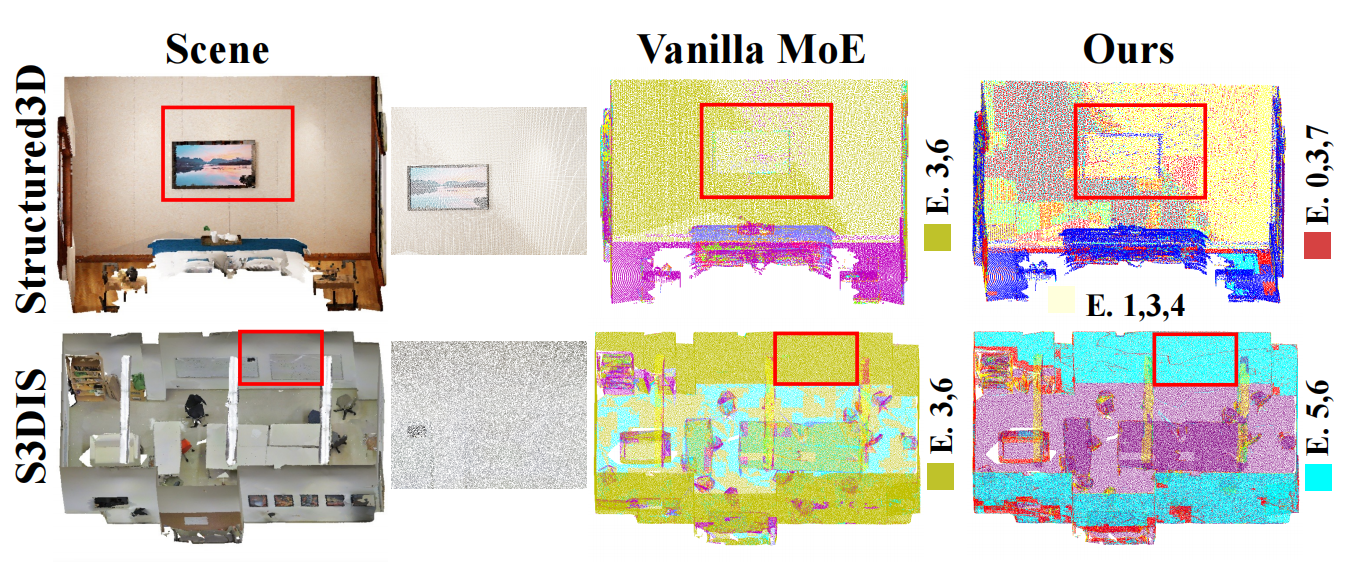
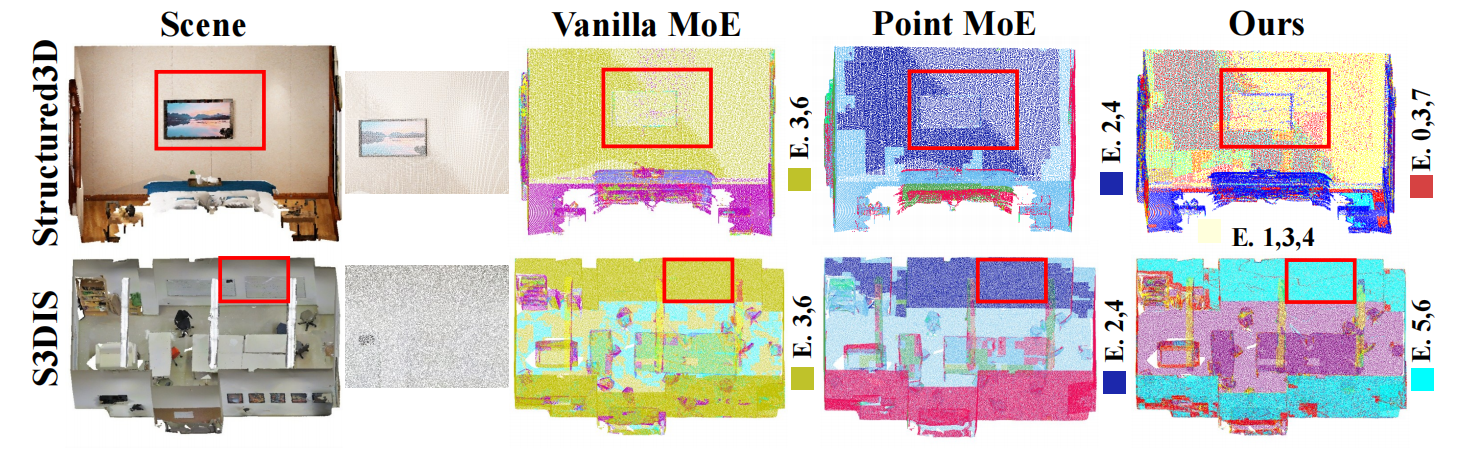
Add project page

diff --git a/index.html b/index.html
@@ -6,9 +6,9 @@
   
   <!-- Primary Meta Tags -->
   <!-- TODO: Replace with your paper title and author names -->
-  <meta name="title" content="DoReMi: Bridging 3D Domains via Topology-Aware Domain-Representation Mixture of Experts - Mingwei Xing, Xinliang Wang, Yifeng Shi">
+  <meta name="title" content="STAR: A Spatial-Topology Aware Routing Framework for Generalizable 3D Scene Understanding - Mingwei Xing, Xinliang Wang, Yifeng Shi">
   <!-- TODO: Write a compelling 150-160 character description of your research -->
-  <meta name="description" content="DoReMi introduces a topology-aware domain-representation mixture of experts for generalizable 3D scene understanding across heterogeneous sensors.">
+  <meta name="description" content="STAR introduces a spatial-topology aware routing framework for generalizable 3D scene understanding across heterogeneous sensors.">
   <!-- TODO: Add 5-10 relevant keywords for your research area -->
   <meta name="keywords" content="3D Understanding, Multi-domain Learning, Mixture-of-Experts, Topology-aware Routing, Domain Adaptation">
   <!-- TODO: List all authors -->
@@ -21,16 +21,16 @@
   <!-- TODO: Replace with your institution or lab name -->
   <meta property="og:site_name" content="Ke Holdings Inc.">
   <!-- TODO: Same as paper title above -->
-  <meta property="og:title" content="DoReMi: Bridging 3D Domains via Topology-Aware Domain-Representation Mixture of Experts">
+  <meta property="og:title" content="STAR: A Spatial-Topology Aware Routing Framework for Generalizable 3D Scene Understanding">
   <!-- TODO: Same as description above -->
-  <meta property="og:description" content="DoReMi introduces a topology-aware domain-representation mixture of experts for generalizable 3D scene understanding across heterogeneous sensors.">
+  <meta property="og:description" content="STAR introduces a spatial-topology aware routing framework for generalizable 3D scene understanding across heterogeneous sensors.">
   <!-- TODO: Replace with your actual website URL -->
   <meta property="og:url" content="https://YOUR_DOMAIN.com/YOUR_PROJECT_PAGE">
   <!-- TODO: Create a 1200x630px preview image and update path -->
   <meta property="og:image" content="https://YOUR_DOMAIN.com/static/images/social_preview.png">
   <meta property="og:image:width" content="1200">
   <meta property="og:image:height" content="630">
-  <meta property="og:image:alt" content="DoReMi - Research Preview">
+  <meta property="og:image:alt" content="STAR - Research Preview">
   <meta property="article:published_time" content="2024-01-01T00:00:00.000Z">
   <meta property="article:author" content="Mingwei Xing">
   <meta property="article:section" content="Research">
@@ -44,15 +44,15 @@
   <!-- TODO: Replace with first author's Twitter handle -->
   <meta name="twitter:creator" content="@AUTHOR_TWITTER_HANDLE">
   <!-- TODO: Same as paper title above -->
-  <meta name="twitter:title" content="DoReMi: Bridging 3D Domains via Topology-Aware Domain-Representation Mixture of Experts">
+  <meta name="twitter:title" content="STAR: A Spatial-Topology Aware Routing Framework for Generalizable 3D Scene Understanding">
   <!-- TODO: Same as description above -->
-  <meta name="twitter:description" content="DoReMi introduces a topology-aware domain-representation mixture of experts for generalizable 3D scene understanding across heterogeneous sensors.">
+  <meta name="twitter:description" content="STAR introduces a spatial-topology aware routing framework for generalizable 3D scene understanding across heterogeneous sensors.">
   <!-- TODO: Same as social preview image above -->
   <meta name="twitter:image" content="https://YOUR_DOMAIN.com/static/images/social_preview.png">
-  <meta name="twitter:image:alt" content="DoReMi - Research Preview">
+  <meta name="twitter:image:alt" content="STAR - Research Preview">
 
   <!-- Academic/Research Specific -->
-  <meta name="citation_title" content="DoReMi: Bridging 3D Domains via Topology-Aware Domain-Representation Mixture of Experts">
+  <meta name="citation_title" content="STAR: A Spatial-Topology Aware Routing Framework for Generalizable 3D Scene Understanding">
   <meta name="citation_author" content="Xing, Mingwei">
   <meta name="citation_author" content="Wang, Xinliang">
   <meta name="citation_author" content="Shi, Yifeng">
@@ -75,7 +75,7 @@
 
 
   <!-- TODO: Replace with your paper title and authors -->
-  <title>DoReMi | Academic Research</title>
+  <title>STAR | Academic Research</title>
   
   <!-- Favicon and App Icons -->
   <link rel="icon" type="image/x-icon" href="static/images/favicon.ico">
@@ -115,8 +115,8 @@
   {
     "@context": "https://schema.org",
     "@type": "ScholarlyArticle",
-    "headline": "DoReMi: Bridging 3D Domains via Topology-Aware Domain-Representation Mixture of Experts",
-    "description": "DoReMi introduces a topology-aware domain-representation mixture of experts for generalizable 3D scene understanding across heterogeneous sensors.",
+    "headline": "STAR: A Spatial-Topology Aware Routing Framework for Generalizable 3D Scene Understanding",
+    "description": "STAR introduces a spatial-topology aware routing framework for generalizable 3D scene understanding across heterogeneous sensors.",
     "author": [
       {
         "@type": "Person",
@@ -143,7 +143,7 @@
     "url": "https://YOUR_DOMAIN.com/YOUR_PROJECT_PAGE",
     "image": "https://YOUR_DOMAIN.com/static/images/social_preview.png",
     "keywords": ["3D Understanding", "Multi-domain Learning", "Mixture-of-Experts", "Topology-aware Routing"],
-    "abstract": "Constructing a unified 3D scene understanding model has long been hindered by the significant topological discrepancies across different sensor modalities. While applying the Mixture-of-Experts (MoE) architecture is an effective approach to achieving universal understanding, we observe that existing 3D MoE networks often suffer from semantics-driven routing bias. This makes it challenging to address cross-domain data characterized by semantic consistency yet topological heterogeneity. To overcome this challenge, we propose DoReMi (Topology-Aware Domain-Representation Mixture of Experts). Specifically, we introduce a self-supervised pre-training branch based on multi attributes, such as topological and texture variations, to anchor cross-domain structural priors. Building upon this, we design a domain-aware expert branch comprising two core mechanisms: Domain Spatial-Guided Routing (DSR), which achieves an acute perception of local topological variations by extracting spatial contexts, and Entropy-controlled Dynamic Allocation (EDA), which dynamically adjusts the number of activated experts by quantifying routing uncertainty to ensure training stability. Through the synergy of these dual branches, DoReMi achieves a deep integration of universal feature extraction and highly adaptive expert allocation. Extensive experiments across various tasks, encompassing both indoor and outdoor scenes, validate the superiority of DoReMi. It achieves 80.1% mIoU on the ScanNet validation set and 77.2% mIoU on S3DIS, comprehensively outperforming existing state-of-the-art methods. The code will be released soon.",
+    "abstract": "Constructing a unified 3D scene understanding model has long been hindered by the significant topological discrepancies across different sensor modalities. While applying the Mixture-of-Experts (MoE) architecture is a flexible approach for multi-domain 3D understanding, we observe that conventional feature-only MoE routers may underrepresent local sampling topology under semantic supervision, making expert allocation difficult when semantic consistency coexists with geometric heterogeneity. To overcome this challenge, we propose STAR (Spatial-Topology Aware Routing Framework). Specifically, we introduce a multi-attribute self-supervised pre-training branch, covering topological and textural variations, to anchor cross-domain structural priors. Building upon this, we design a domain-aware expert branch with two mechanisms: Domain-Spatial-Guided Routing (DSR), which captures local topological variations from spatial context, and Entropy-controlled Dynamic Allocation (EDA), which adjusts the number of activated experts according to routing uncertainty. Together, these branches combine stable cross-domain representation learning with adaptive expert allocation. Extensive experiments across various tasks, encompassing both indoor and outdoor scenes, demonstrate the effectiveness of STAR. It achieves 80.1% mIoU on the ScanNet validation set and 77.2% mIoU on S3DIS, consistently improving over strong baselines.",
     "citation": "BIBTEX_CITATION_HERE",
     "isAccessibleForFree": true,
     "license": "https://creativecommons.org/licenses/by/4.0/",
@@ -193,7 +193,7 @@
         <div class="columns is-centered">
           <div class="column has-text-centered">
             <!-- TODO: Replace with your paper title -->
-            <h1 class="title is-1 publication-title"><span style="color:#D64045">Do</span><span style="color:#2CA58D">Re</span><span style="color:#4E8BD6">Mi</span>: Bridging 3D Domains via Topology-Aware <span style="color:#D64045">Do</span>main-<span style="color:#2CA58D">Re</span>presentation <span style="color:#4E8BD6">Mi</span>xture of Experts</h1>
+            <h1 class="title is-1 publication-title"><span style="color:#D64045">S</span>TAR: A <span style="color:#D64045">S</span>patial-<span style="color:#2CA58D">T</span>opology <span style="color:#4E8BD6">A</span>ware <span style="color:#E8A838">R</span>outing Framework for Generalizable 3D Scene Understanding</h1>
             <div class="is-size-5 publication-authors">
               <!-- TODO: Replace with your paper authors and their personal links -->
               <span class="author-block">Mingwei Xing<sup>*</sup>,</span>
@@ -228,7 +228,7 @@
                     </span>
 
                   <span class="link-block">
-                    <a href="https://github.com/xmw666/DoReMi" target="_blank"
+                    <a href="https://github.com/xmw666/STAR" target="_blank"
                     class="external-link button is-normal is-rounded is-dark">
                     <span class="icon">
                       <i class="fab fa-github"></i>
@@ -238,7 +238,7 @@
                 </span>
 
                 <span class="link-block">
-                  <a href="https://huggingface.co/koun123/DoReMi/tree/main" target="_blank"
+                  <a href="https://huggingface.co/koun123/STAR/tree/main" target="_blank"
                   class="external-link button is-normal is-rounded is-dark">
                   <span class="icon">
                     <span aria-hidden="true">🤗</span>
@@ -258,9 +258,9 @@
 <section class="hero teaser">
   <div class="container is-max-desktop">
     <div class="hero-body">
-      <img src="static/images/framework.png" alt="DoReMi framework overview" loading="eager"/>
+      <img src="static/images/framework.png" alt="STAR framework overview" loading="eager"/>
       <h2 class="subtitle has-text-centered">
-        Overview of DoReMi with the dual-branch design: unified representation branch and topology-aware domain-aware branch.
+        Overview of STAR with the dual-branch design: unified representation branch and topology-aware domain-aware branch.
       </h2>
     </div>
   </div>
@@ -275,7 +275,7 @@
         <div class="content has-text-justified">
           <!-- TODO: Replace with your paper abstract -->
           <p>
-            Constructing a unified 3D scene understanding model has long been hindered by the significant topological discrepancies across different sensor modalities. While applying the Mixture-of-Experts (MoE) architecture is an effective approach to achieving universal understanding, we observe that existing 3D MoE networks often suffer from semantics-driven routing bias. This makes it challenging to address cross-domain data characterized by "semantic consistency yet topological heterogeneity." To overcome this challenge, we propose DoReMi (Topology-Aware Domain-Representation Mixture of Experts). Specifically, we introduce a self-supervised pre-training branch based on multi attributes, such as topological and texture variations, to anchor cross-domain structural priors. Building upon this, we design a domain-aware expert branch comprising two core mechanisms: Domain Spatial-Guided Routing (DSR), which achieves an acute perception of local topological variations by extracting spatial contexts, and Entropy-controlled Dynamic Allocation (EDA), which dynamically adjusts the number of activated experts by quantifying routing uncertainty to ensure training stability. Through the synergy of these dual branches, DoReMi achieves a deep integration of universal feature extraction and highly adaptive expert allocation. Extensive experiments across various tasks, encompassing both indoor and outdoor scenes, validate the superiority of DoReMi. It achieves 80.1% mIoU on the ScanNet validation set and 77.2% mIoU on S3DIS, comprehensively outperforming existing state-of-the-art methods. The code will be released soon.
+            Constructing a unified 3D scene understanding model has long been hindered by the significant topological discrepancies across different sensor modalities. While applying the Mixture-of-Experts (MoE) architecture is a flexible approach for multi-domain 3D understanding, we observe that conventional feature-only MoE routers may underrepresent local sampling topology under semantic supervision, making expert allocation difficult when semantic consistency coexists with geometric heterogeneity. To overcome this challenge, we propose <b>STAR</b> (Spatial-Topology Aware Routing Framework). Specifically, we introduce a multi-attribute self-supervised pre-training branch, covering topological and textural variations, to anchor cross-domain structural priors. Building upon this, we design a domain-aware expert branch with two mechanisms: Domain-Spatial-Guided Routing (DSR), which captures local topological variations from spatial context, and Entropy-controlled Dynamic Allocation (EDA), which adjusts the number of activated experts according to routing uncertainty. Together, these branches combine stable cross-domain representation learning with adaptive expert allocation. Extensive experiments across various tasks, encompassing both indoor and outdoor scenes, demonstrate the effectiveness of STAR. It achieves 80.1% mIoU on the ScanNet validation set and 77.2% mIoU on S3DIS, consistently improving over strong baselines.
           </p>
         </div>
       </div>
@@ -291,7 +291,7 @@
     <div class="content has-text-centered">
       <img src="static/images/intro.png" alt="Semantic-dominant versus topology-aware routing" loading="lazy"/>
       <p>
-        Compared with vanilla MoE that tends to reuse similar experts for semantically similar objects, DoReMi adaptively changes expert combinations according to topology variations across datasets.
+        Compared with vanilla MoE that tends to reuse similar experts for semantically similar objects, STAR adaptively changes expert combinations according to topology variations across datasets.
       </p>
     </div>
   </div>
@@ -303,14 +303,14 @@
   <div class="container is-max-desktop">
     <h2 class="title is-3 has-text-centered">Results</h2>
     <div class="content">
-      <img src="static/images/performance.png" alt="DoReMi benchmark performance comparison" loading="lazy" style="max-width: 72%; height: auto; display: block; margin: 0 auto;"/>
+      <img src="static/images/performance.png" alt="STAR benchmark performance comparison" loading="lazy" style="max-width: 72%; height: auto; display: block; margin: 0 auto;"/>
       <p class="has-text-centered">
-        <strong>Performance.</strong> DoReMi achieves consistent gains across indoor benchmarks, improving key metrics such as mIoU while maintaining strong generalization.
+        <strong>Performance.</strong> STAR achieves consistent gains across indoor benchmarks, improving key metrics such as mIoU while maintaining strong generalization.
       </p>
 
-      <img src="static/images/visual_seg.png" alt="DoReMi segmentation visualization" loading="lazy"/>
+      <img src="static/images/visual_seg.png" alt="STAR segmentation visualization" loading="lazy"/>
       <p class="has-text-centered">
-        <strong>Segmentation visualization.</strong> Compared with previous methods, DoReMi yields cleaner semantic boundaries.
+        <strong>Segmentation visualization.</strong> Compared with previous methods, STAR yields cleaner semantic boundaries.
       </p>
 
       <div class="table-container" style="max-width: 480px; margin: 0 auto;">
@@ -329,7 +329,7 @@
               <td>49.5</td>
             </tr>
             <tr>
-              <td>SpatialLM + DoReMi (Ours)</td>
+              <td>SpatialLM + STAR (Ours)</td>
               <td><strong>60.8</strong></td>
               <td><strong>51.9</strong></td>
             </tr>
@@ -337,9 +337,9 @@
         </table>
       </div>
       <p class="has-text-centered">
-        On ARKitScenes validation, DoReMi improves multimodal detection by +1.9 at F1@0.25 and +2.4 at F1@0.5 over the Sonata-based baseline.
+        On ARKitScenes validation, STAR improves multimodal detection by +1.9 at F1@0.25 and +2.4 at F1@0.5 over the Sonata-based baseline.
       </p>
-      <img src="static/images/visual_det.png" alt="DoReMi detection visualization" loading="lazy"/>
+      <img src="static/images/visual_det.png" alt="STAR detection visualization" loading="lazy"/>
       <p class="has-text-centered">
         <strong>Detection visualization.</strong> The model captures fine-grained spatial cues more robustly, improving localization quality under cross-domain scene variations.
       </p>
@@ -355,12 +355,12 @@
     <div class="content has-text-centered">
       <img src="static/images/activation1.png" alt="Top-2 expert activation distribution comparison" loading="lazy"/>
       <p>
-        Under dropout and mask perturbations, vanilla MoE keeps highly homogeneous top-2 activation patterns, while DoReMi shows larger distribution shifts, indicating stronger topology sensitivity and adaptive routing.
+        Under dropout and mask perturbations, vanilla MoE keeps highly homogeneous top-2 activation patterns, while STAR shows larger distribution shifts, indicating stronger topology sensitivity and adaptive routing.
       </p>
 
       <img src="static/images/activation2.png" alt="Top-k expert activation distribution comparison" loading="lazy"/>
       <p>
-        DoReMi dynamically expands from top-2 to top-k expert combinations when topology becomes more uncertain, supporting robust performance under severe structural changes.
+        STAR dynamically expands from top-2 to top-k expert combinations when topology becomes more uncertain, supporting robust performance under severe structural changes.
       </p>
     </div>
   </div>
@@ -400,7 +400,7 @@
             <td>92.8</td>
           </tr>
           <tr>
-            <td>DoReMi (Ours)</td>
+            <td>STAR (Ours)</td>
             <td>✗</td>
             <td>✓</td>
             <td>80.1</td>
@@ -427,7 +427,7 @@
       </table>
     </div>
     <p class="has-text-centered">
-      DoReMi is compatible with different pretraining paradigms and consistently improves performance on top of both 3D-only and joint 2D-3D pretrained representations.
+      STAR is compatible with different pretraining paradigms and consistently improves performance on top of both 3D-only and joint 2D-3D pretrained representations.
     </p>
   </div>
 </section>
@@ -449,12 +449,7 @@
           <span class="copy-text">Copy</span>
         </button>
       </div>
-      <pre id="bibtex-code"><code>@article{xing2025doremi,
-  title={DoReMi: A Domain-Representation Mixture Framework for Generalizable 3D Understanding},
-  author={Xing, Mingwei and Wang, Xinliang and Shi, Yifeng},
-  journal={arXiv preprint arXiv:2511.11232},
-  year={2025}
-}</code></pre>
+      <pre id="bibtex-code"><code><!-- TODO: 填写正式的 BibTeX 引用信息 --></code></pre>
     </div>
 </section>
 <!--End BibTex citation -->

diff --git a/static/css/index.css b/static/css/index.css
@@ -104,8 +104,8 @@ body {
 }
 
 .teaser .hero-body {
-  padding-top: 2rem;
-  padding-bottom: 4rem;
+  padding-top: 0.5rem;
+  padding-bottom: 2rem;
 }
 
 .teaser {
@@ -142,7 +142,7 @@ body {
 }
 
 .publication-header .hero-body {
-  padding: 6rem 1.5rem 4rem;
+  padding: 6rem 1.5rem 1.5rem;
 }
 
 .publication-authors {
